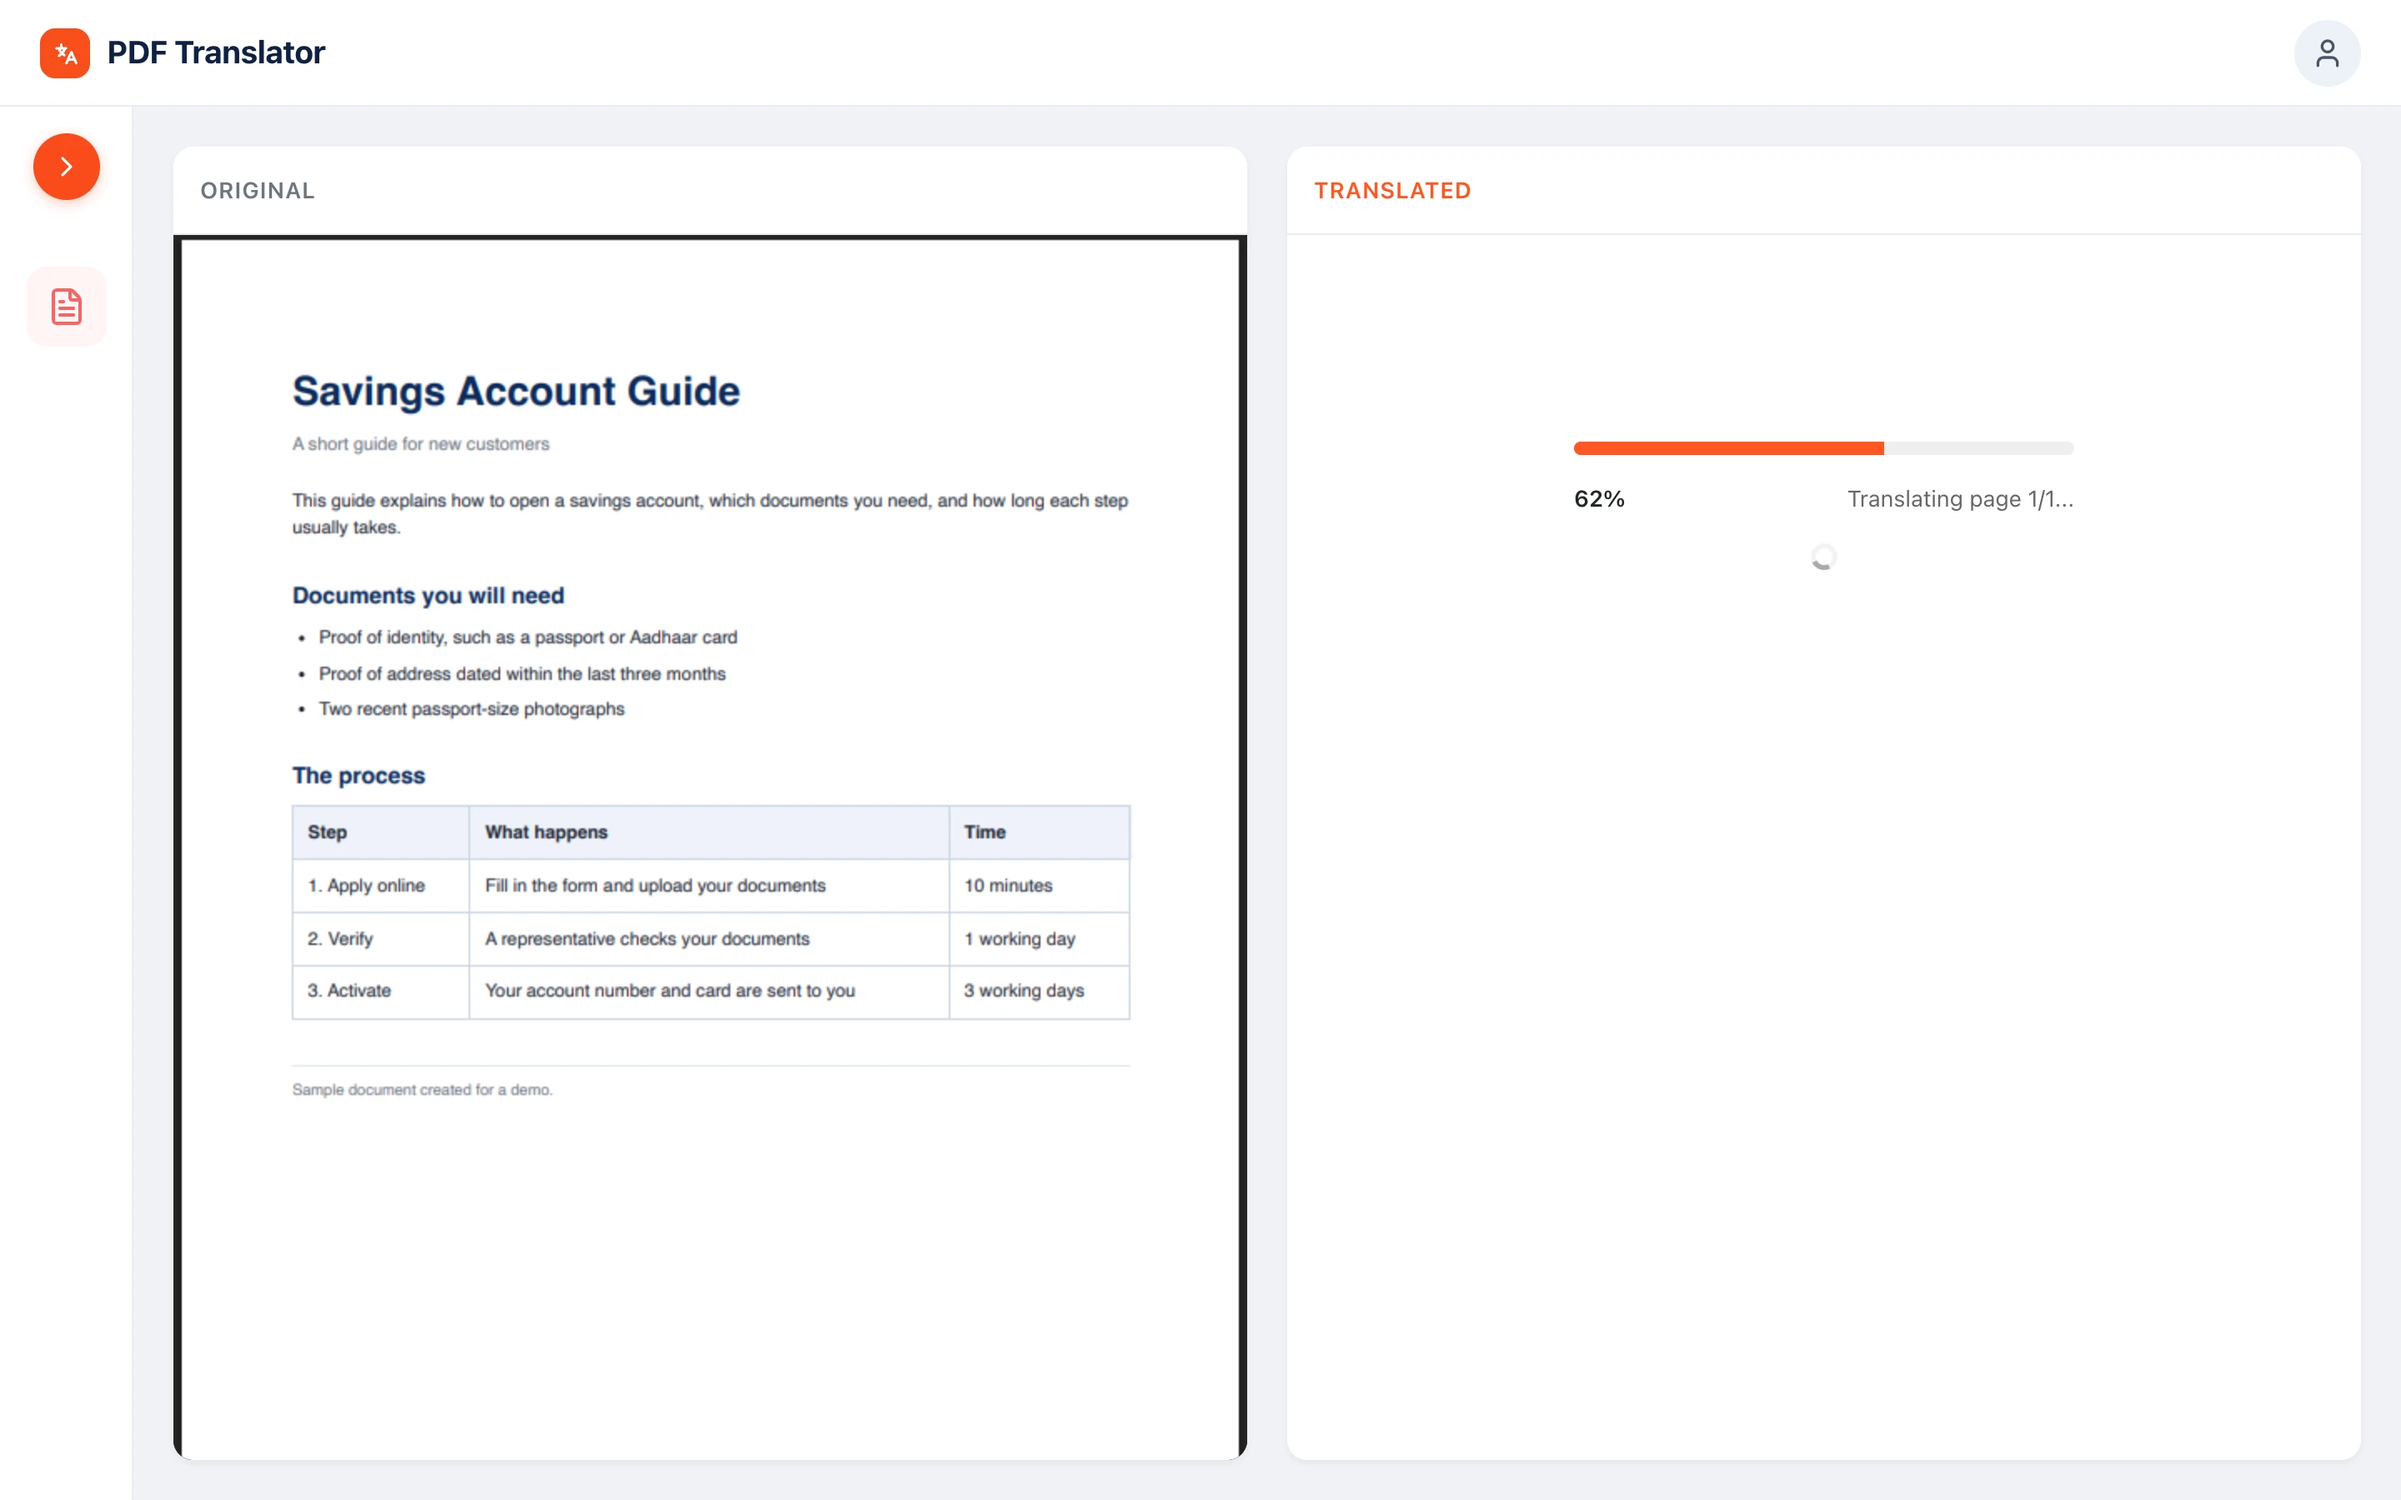
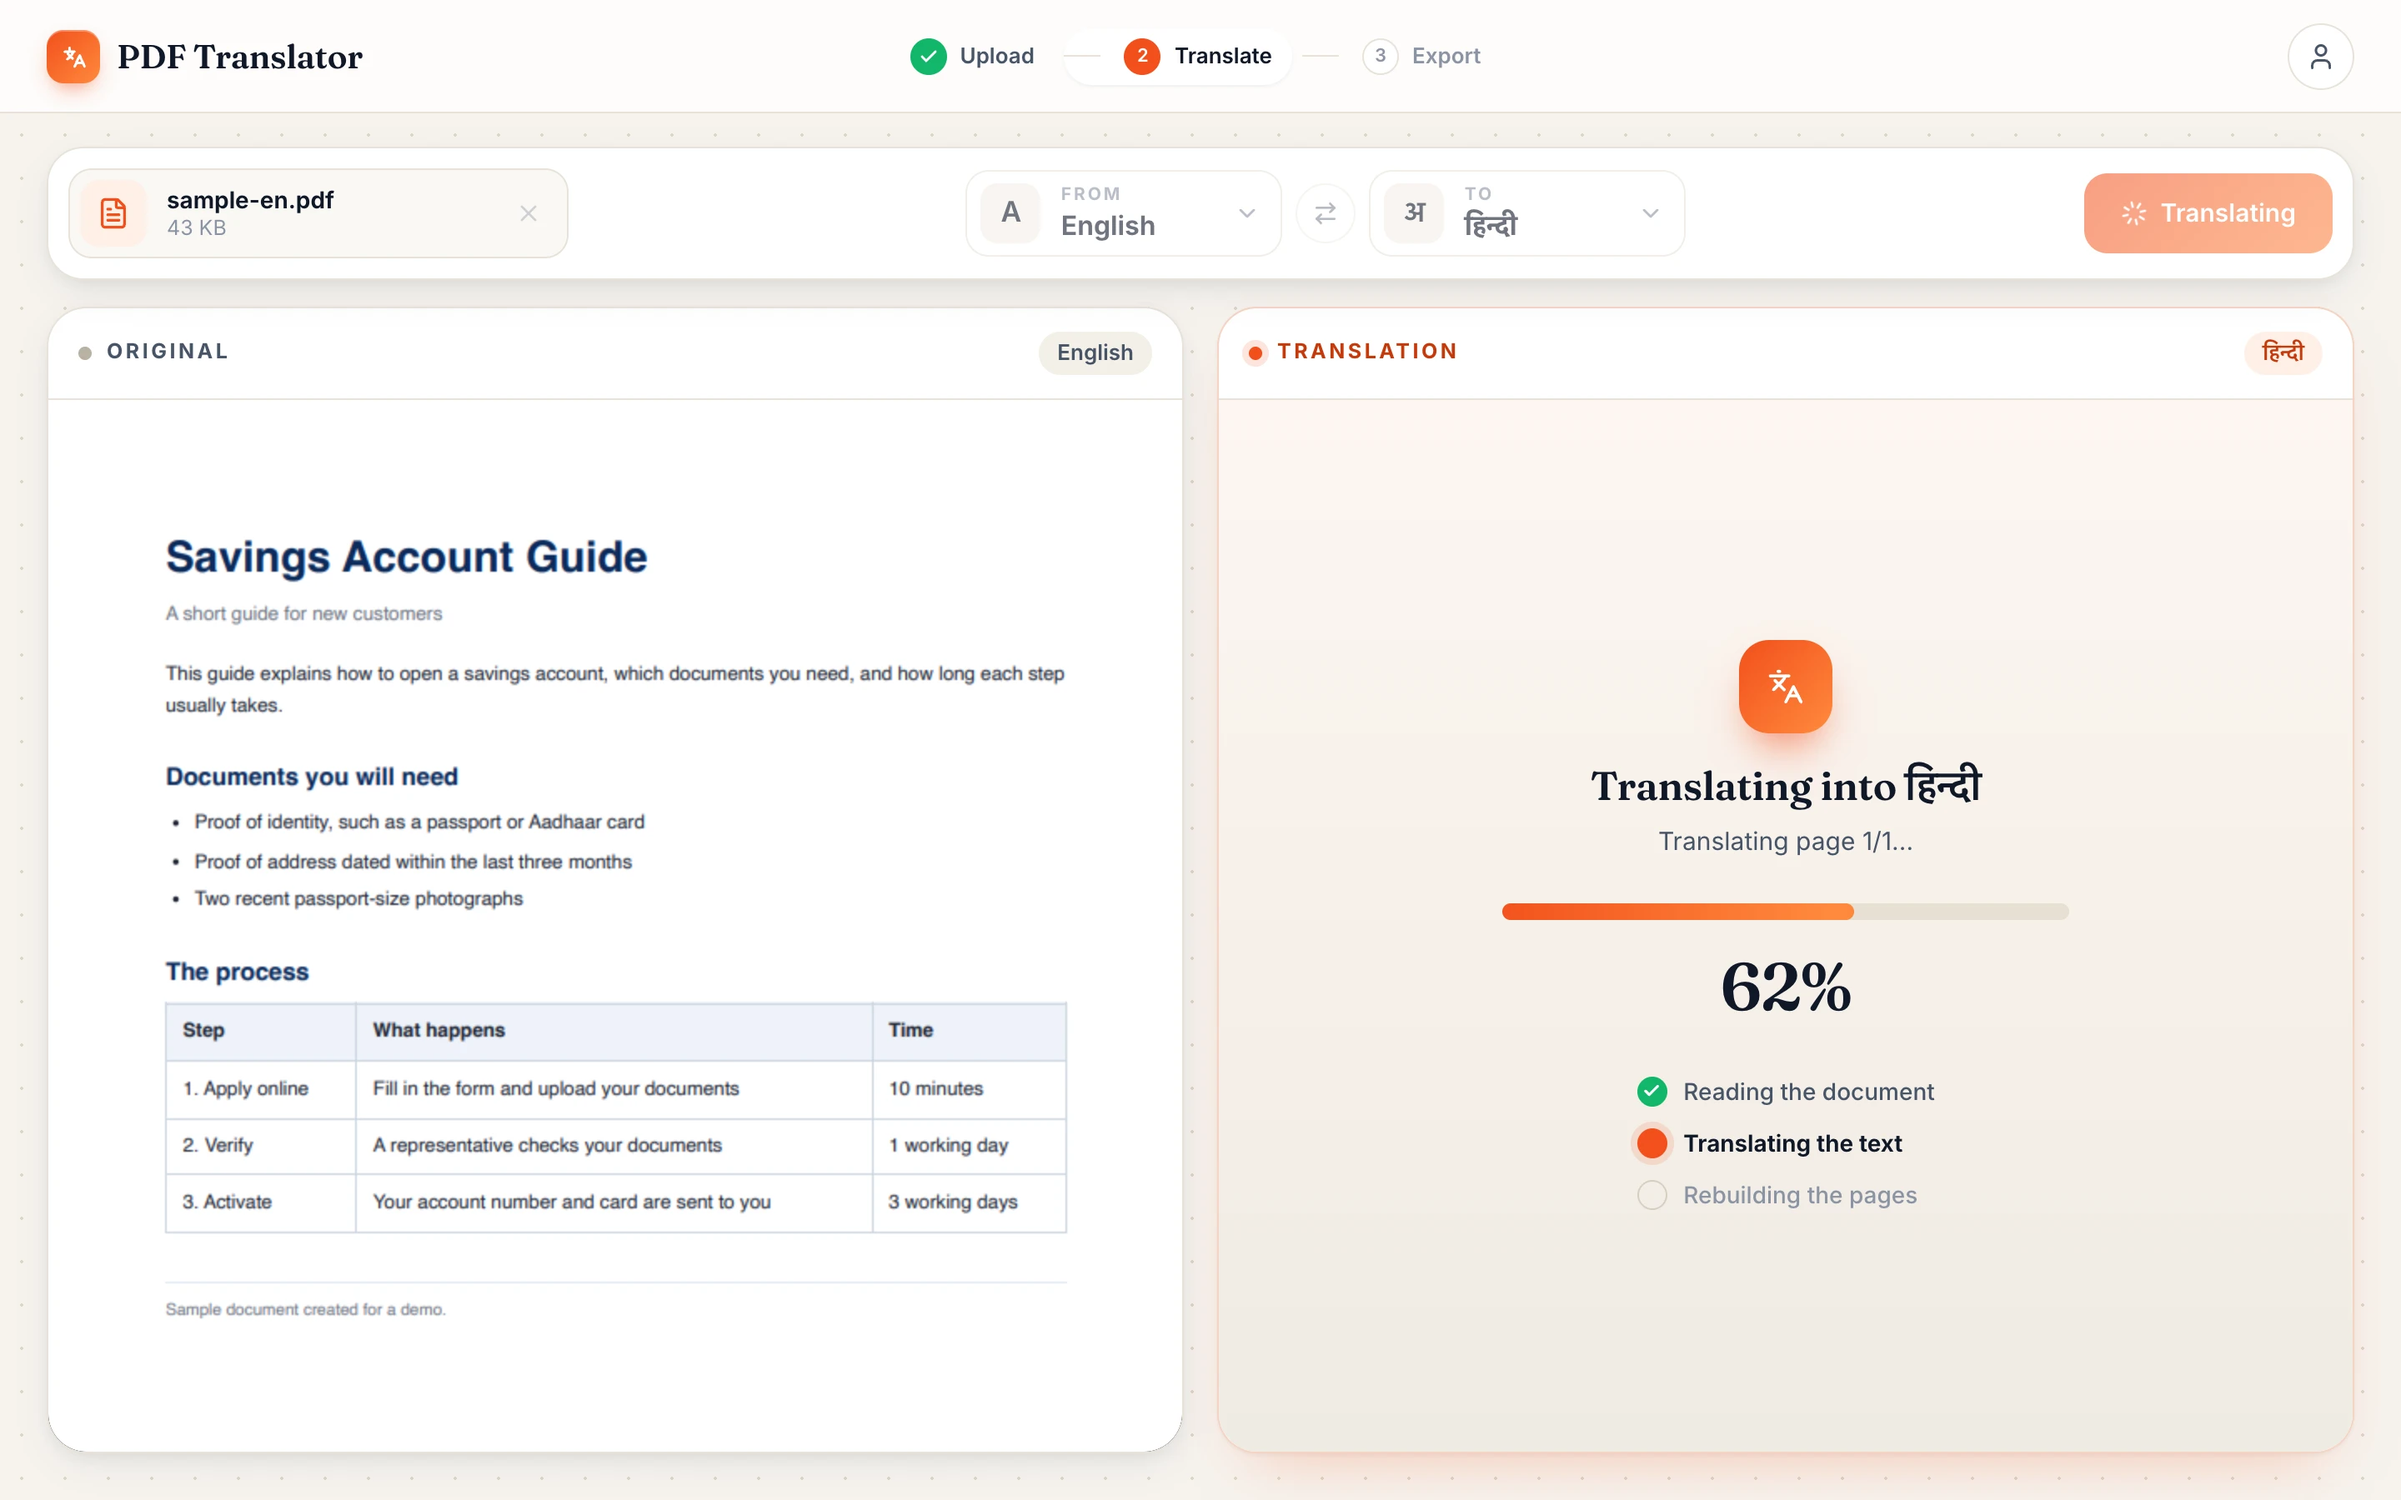
PDF Translator: show the redesigned interface
New stills of the redesigned front end (landing, language picker, progress,
result, sign in and sign up), updated captions and the interface description.

diff --git a/data/projects.ts b/data/projects.ts
@@ -898,7 +898,7 @@ export const projects: Project[] = [
       "Added a fallback for scanned PDFs and images: when a PDF has no text blocks, each page is rendered at double resolution and translated by the vision model, with prompt rules for tables, bullets, headings and image placeholders.",
       "Supported six languages with the right fonts: Devanagari for Hindi and Marathi, and Tamil, Telugu and Malayalam, with English as a source or a target.",
       "Built the sign-in service on Express 5 and Postgres: sign-up, sign-in, email verification, forgot and reset password, Google and GitHub sign-in, an admin-only route, and Redis rate limits on sign-up, sign-in and password reset.",
-      "Built the React interface: sign-in and sign-up pages, a side-by-side Original and Translated workspace with a live progress bar, and downloads as a PDF or as Markdown.",
+      "Designed and built the React interface: a drag-and-drop landing page, sign-in and sign-up pages, language pickers that show each script in its own letters, a side-by-side Original and Translation workspace with a live progress stage, and downloads as a PDF or as Markdown.",
     ],
     features: [
       { title: "Layout-kept PDFs", body: "The translated PDF has the same pages, positions, sizes and colours as the original, only in the new language." },
@@ -916,37 +916,47 @@ export const projects: Project[] = [
       { title: "Polling", body: "The interface asks for a job's status every second, which is enough to make the progress bar feel smooth." },
       { title: "A font per language", body: "The font is chosen from the target language, because a PDF can only show a script if it embeds a font for it." },
     ],
-    stack: ["React 19", "Vite", "Tailwind CSS", "Python", "FastAPI", "Gemini", "PyMuPDF", "WeasyPrint", "Express", "PostgreSQL", "Drizzle ORM", "Redis"],
+    stack: ["React 19", "Vite", "Python", "FastAPI", "Gemini", "PyMuPDF", "WeasyPrint", "Express", "PostgreSQL", "Drizzle ORM", "Redis"],
     color: "sky",
     cover: "/projects/pdf-translator/login.webp",
     screens: [
       {
         src: "/projects/pdf-translator/translated.webp",
-        alt: "The translator showing an English sample document on the left and its Hindi translation on the right, with Download Markdown and Export PDF buttons",
+        alt: "The finished translation: an English sample document on the left and its Hindi translation on the right, with all three steps checked and Download Markdown and Export PDF buttons",
         caption: "A finished translation next to its original",
       },
       {
+        src: "/projects/pdf-translator/landing.webp",
+        alt: "The upload page with the headline Translate a document, a large drop area for PDF, PNG and JPG files, and chips for the six languages",
+        caption: "Drop in a PDF or a scan",
+      },
+      {
         src: "/projects/pdf-translator/uploaded.webp",
-        alt: "The document settings panel with a PDF uploaded, English to Hindi selected, and the original shown on the left",
-        caption: "Upload a file and pick the languages",
+        alt: "A command bar with the file name, English to Hindi pickers and a Translate document button above the original page and an empty translation pane",
+        caption: "Pick the languages, then translate",
+      },
+      {
+        src: "/projects/pdf-translator/languages.webp",
+        alt: "The To language menu open, listing English, Hindi, Marathi, Tamil, Telugu and Malayalam, each written in its own script",
+        caption: "Each language is shown in its own script",
       },
       {
         src: "/projects/pdf-translator/progress.webp",
-        alt: "The translation in progress, with a progress bar at 62 percent and a message about translating page 1",
+        alt: "The translation pane in progress, with a progress bar at 62 percent and three stages: reading, translating and rebuilding the pages",
         caption: "Live progress while the job runs",
       },
       {
         src: "/projects/pdf-translator/login.webp",
-        alt: "The sign-in page with an email and password form and two feature cards, Enterprise Secure and Instant Translate",
+        alt: "The sign-in page: a dark panel with a sample English page turning into its Hindi translation, and a Welcome back form",
         caption: "Sign in",
       },
       {
         src: "/projects/pdf-translator/signup.webp",
-        alt: "The sign-up page with name, email and password fields, with the same two feature cards beside the form",
+        alt: "The sign-up page with name, email and password fields beside the same dark showcase panel",
         caption: "Create an account",
       },
     ],
-    screensNote: "These are stills only. They show a made-up sample document and come from the real front end running against a mock API.",
+    screensNote: "These are stills only. They show a made-up sample document and come from the front end running against a mock API.",
     stats: [
       { to: 8, label: "commits in the repository, all mine" },
       { to: 3, label: "services: translation, sign-in and the interface" },
